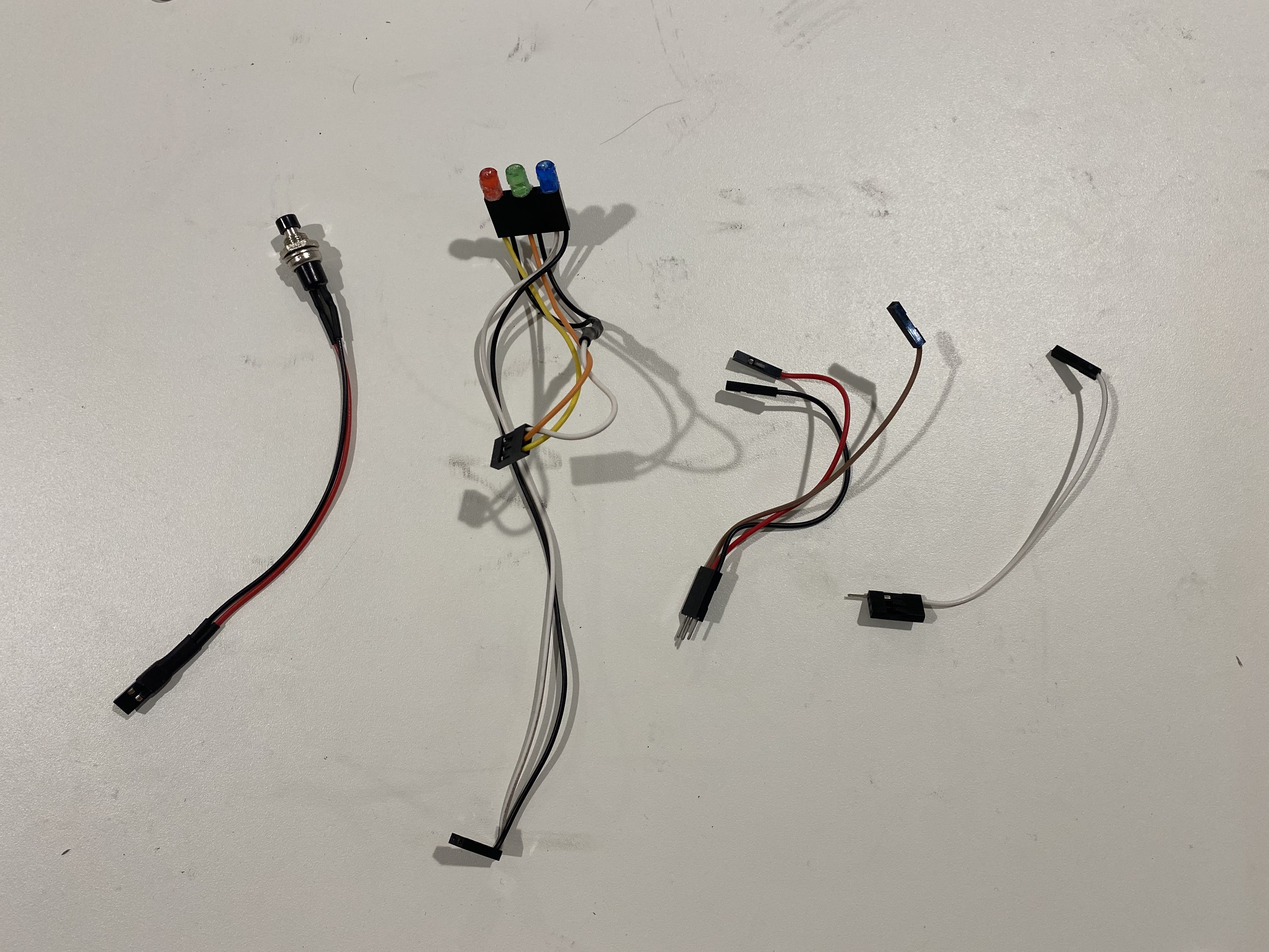
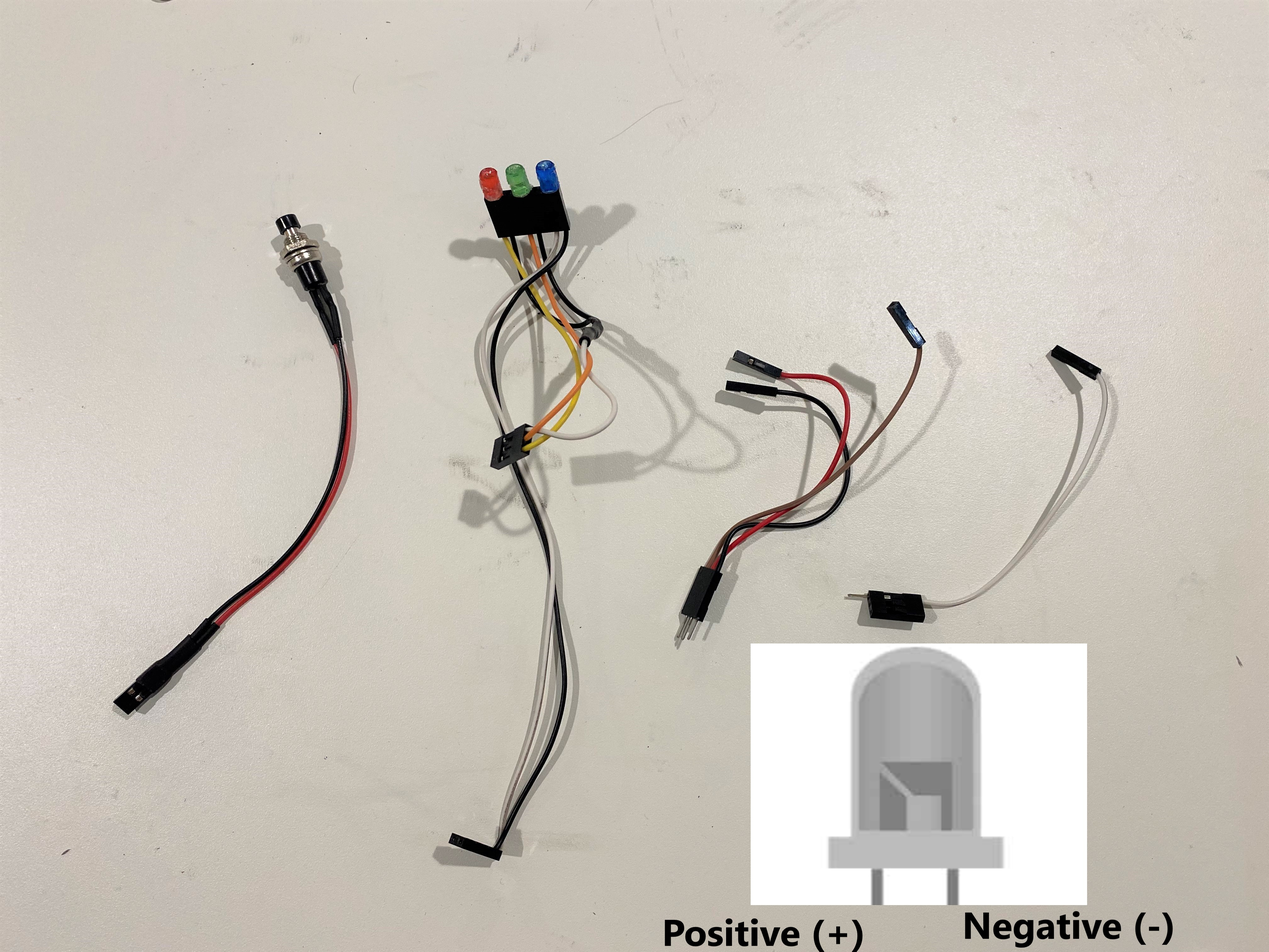
working!!!

diff --git a/Program/startup.py b/Program/startup.py
@@ -17,6 +17,6 @@ if __name__ == '__main__':
         GPIO.output(11, GPIO.HIGH)
         GPIO.setup(18, GPIO.IN)
         GPIO.wait_for_edge(18, GPIO.RISING)
-        GPIO.wait_for_edge(18, GPIO.FALLING)
+        print('Button pressed - starting!')
         GPIO.cleanup()
         os.system('python3 autodrive.py')

diff --git a/ASSEMBLY.md b/ASSEMBLY.md
@@ -58,7 +58,7 @@ On the output of the 7.4V regulator, solder two single-pin headers. Now, attach 
 
 Crimp connectors for servo power and PWM. Use 10cm lengths of 20-24 gauge wire. The servo connector should have a 3-pin male connector with 3 1-pin female connectors. The ESC connector has one male connector in a 3-pin connector and one female connector.
 
-
+If using LED indicators, identify the positive terminal on each of your red, green, and blue 5V LEDs.
 
 ![indicators, connectors, and a button](./Documentation/img/build-3.jpg)
 
